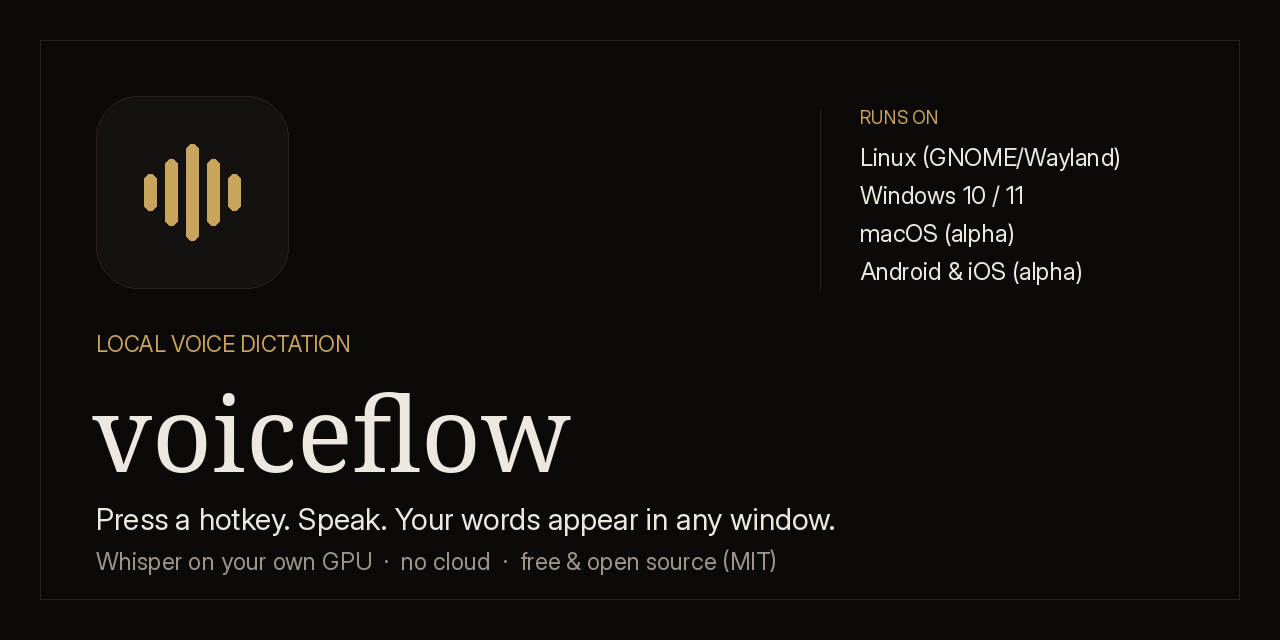
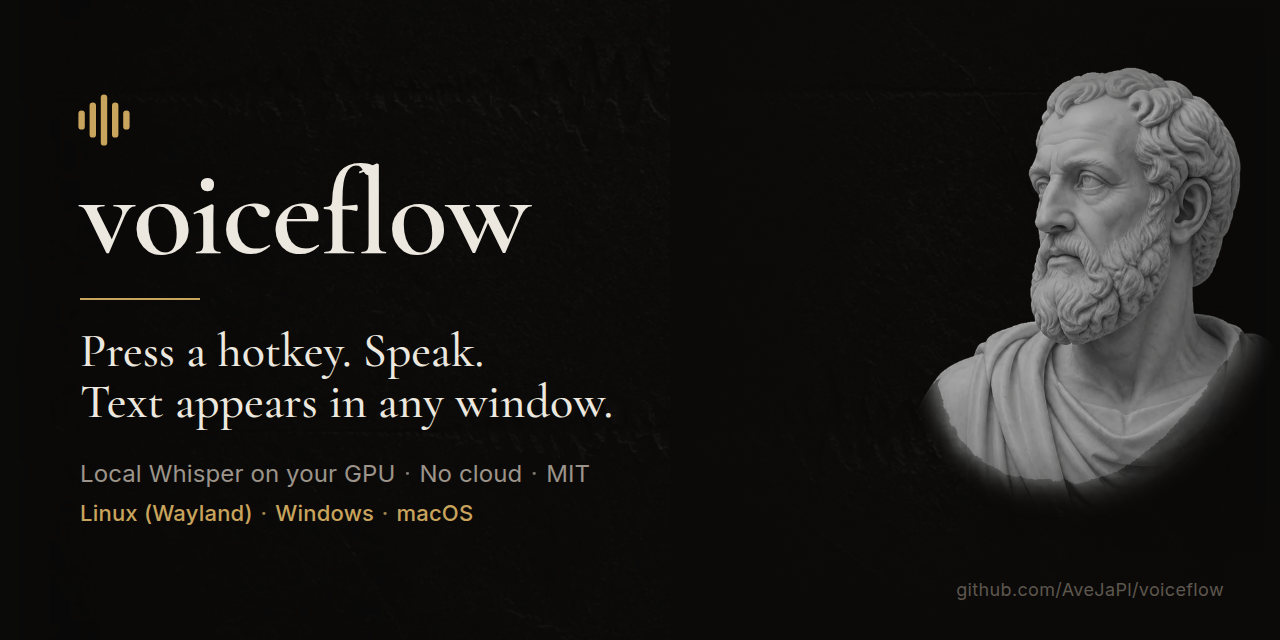
Poprawki po review: docs/superpowers zostaje, notatka zostaje, social preview z posagiem, link FAQ

diff --git a/docs/assets/social-preview/source.html b/docs/assets/social-preview/source.html
@@ -1,0 +1,77 @@
+<!doctype html>
+<!--
+  Source of docs/assets/social-preview.png (GitHub social preview, 1280x640).
+  Style follows site/DESIGN.md ("Stoic"). Render from the repo root:
+
+    google-chrome --headless=new --disable-gpu --hide-scrollbars \
+      --user-data-dir="$(mktemp -d)" --window-size=1280,640 \
+      --virtual-time-budget=8000 \
+      --screenshot=docs/assets/social-preview.png \
+      "file://$PWD/docs/assets/social-preview/source.html"
+
+  Upload: repo Settings -> General -> Social preview (manual, no API).
+-->
+<html lang="en">
+<head>
+<meta charset="utf-8">
+<title>voiceflow social preview</title>
+<link rel="preconnect" href="https://fonts.googleapis.com">
+<link rel="preconnect" href="https://fonts.gstatic.com" crossorigin>
+<link href="https://fonts.googleapis.com/css2?family=Cormorant+Garamond:wght@500;600&family=Inter:wght@400;500&display=block" rel="stylesheet">
+<style>
+  :root{
+    --bg:#0B0A09; --text:#EDE8DF; --muted:#9C948A; --faint:#5D574E;
+    --border:#272220; --gold:#C9A45C;
+  }
+  *{margin:0;padding:0;box-sizing:border-box}
+  html,body{width:1280px;height:640px;overflow:hidden;background:var(--bg)}
+  body{position:relative;color:var(--text);font-family:"Inter",sans-serif;-webkit-font-smoothing:antialiased}
+
+  /* texture: relief, very dim */
+  .relief{position:absolute;inset:0;background:url(../../../site/assets/bg-relief.webp) center/cover no-repeat;
+    opacity:.16;filter:grayscale(1)}
+  /* statue, mirrored so it faces the text, cropped to the bust */
+  .statue{position:absolute;right:-10px;top:0;width:620px;height:640px;overflow:hidden}
+  .statue img{position:absolute;width:1040px;height:auto;right:-20px;top:-40px;transform:scaleX(-1);
+    filter:grayscale(1) brightness(.8) contrast(1.05);opacity:.85}
+  /* blend the statue into the background on the left and bottom edges */
+  .statue::after{content:"";position:absolute;inset:0;
+    background:
+      linear-gradient(90deg,var(--bg) 0%,rgba(11,10,9,.85) 14%,rgba(11,10,9,0) 42%),
+      linear-gradient(0deg,var(--bg) 0%,rgba(11,10,9,0) 30%),
+      linear-gradient(180deg,rgba(11,10,9,.6) 0%,rgba(11,10,9,0) 18%)}
+
+  .content{position:absolute;left:80px;top:88px;width:720px}
+  .icon{width:64px;height:64px;color:var(--gold);display:block;margin-left:-8px}
+  h1{font-family:"Cormorant Garamond",serif;font-weight:600;font-size:124px;line-height:.9;
+    letter-spacing:-.015em;margin-top:6px}
+  .rule{width:120px;height:2px;background:var(--gold);margin:28px 0 26px}
+  .tagline{font-family:"Cormorant Garamond",serif;font-weight:500;font-size:48px;line-height:1.08}
+  .facts{margin-top:30px;font-size:24px;color:var(--muted);letter-spacing:.005em}
+  .platforms{margin-top:12px;font-size:22px;font-weight:500;color:var(--gold);letter-spacing:.01em}
+  .dot{padding:0 .35em;opacity:.8}
+  .url{position:absolute;right:56px;bottom:40px;font-size:18px;color:var(--faint);letter-spacing:.02em}
+</style>
+</head>
+<body>
+  <div class="relief"></div>
+  <div class="statue"><img src="../../../site/assets/hero-statue-4.webp" alt=""></div>
+
+  <div class="content">
+    <svg class="icon" viewBox="24 24 80 80" aria-hidden="true" fill="currentColor">
+      <rect x="32" y="52" width="8" height="24" rx="4"/>
+      <rect x="46" y="42" width="8" height="44" rx="4"/>
+      <rect x="60" y="32" width="8" height="64" rx="4"/>
+      <rect x="74" y="42" width="8" height="44" rx="4"/>
+      <rect x="88" y="52" width="8" height="24" rx="4"/>
+    </svg>
+    <h1>voiceflow</h1>
+    <div class="rule"></div>
+    <p class="tagline">Press a hotkey. Speak.<br>Text appears in any window.</p>
+    <p class="facts">Local Whisper on your GPU<span class="dot">·</span>No cloud<span class="dot">·</span>MIT</p>
+    <p class="platforms">Linux (Wayland)<span class="dot">·</span>Windows<span class="dot">·</span>macOS</p>
+  </div>
+
+  <div class="url">github.com/AveJaPl/voiceflow</div>
+</body>
+</html>

diff --git a/NOTATKA-DLA-AGENTA.md b/NOTATKA-DLA-AGENTA.md
@@ -1,0 +1,16 @@
+# Notatka od równoległej sesji Claude (2026-08-14, tuż po północy)
+
+Gdy odpalasz tu `pytest`, na pasku GNOME Filipa pojawiały się zduplikowane
+wskaźniki mikrofonu („0 min · 💬 0”) — 7 testów w `tests/test_daemon.py`
+buduje `VoiceflowDaemon(Config(), ...)` bez stuba `tray=`, a konstruktor
+demona odpala wtedy prawdziwy `scripts/voiceflow-tray.py` (domyślne
+`tray.enabled=True`). Filip widział to już dwa razy i poprosił o poprawkę.
+
+Poprawka jest gotowa na branchu **`fix/testy-bez-prawdziwej-ikony-tray`**
+(autouse fixture w `tests/conftest.py` podmieniająca `voiceflow.daemon.Tray`
+na `NullTray`; pełna suita 321 passed, zweryfikowane brakiem procesów tray
+podczas biegu). PR: https://github.com/AveJaPl/voiceflow/pull/10
+
+Prośba: zmerguj ją do `main` przy okazji swojej pracy (rebase/merge — jak
+wolisz), a po merge'u usuń ten plik. Celowo nie ruszałem Twojego drzewa
+roboczego — pracowałem w osobnym worktree.

diff --git a/CONTRIBUTING.md b/CONTRIBUTING.md
@@ -39,7 +39,7 @@ The macOS and mobile ports have their own toolchains; see
 | `windows/` | Windows installers |
 | `scripts/`, `systemd/`, `install.sh` | Linux install and helper scripts |
 | `tests/` | the Python test suite |
-| `docs/` | user docs and [internal design notes](docs/design/README.md) |
+| `docs/` | user docs and [internal design notes](docs/superpowers/README.md) |
 
 Module boundaries are load-bearing: `recorder`, `transcriber`, `injector`, `overlay`
 and `micmute` must not import each other; the daemon is the only composer. Keep one

diff --git a/rooms/README.md b/rooms/README.md
@@ -2,7 +2,7 @@
 
 The service behind shared dictation sessions: who is speaking right now, a hard
 talk lock for everyone else, ducking the audio for everyone in the room, and a
-session leaderboard. Design: [docs/design/specs/2026-08-11-pokoje-i-sesje-design.md](../docs/design/specs/2026-08-11-pokoje-i-sesje-design.md)
+session leaderboard. Design: [docs/superpowers/specs/2026-08-11-pokoje-i-sesje-design.md](../docs/superpowers/specs/2026-08-11-pokoje-i-sesje-design.md)
 (in Polish).
 
 ## What goes through this service
